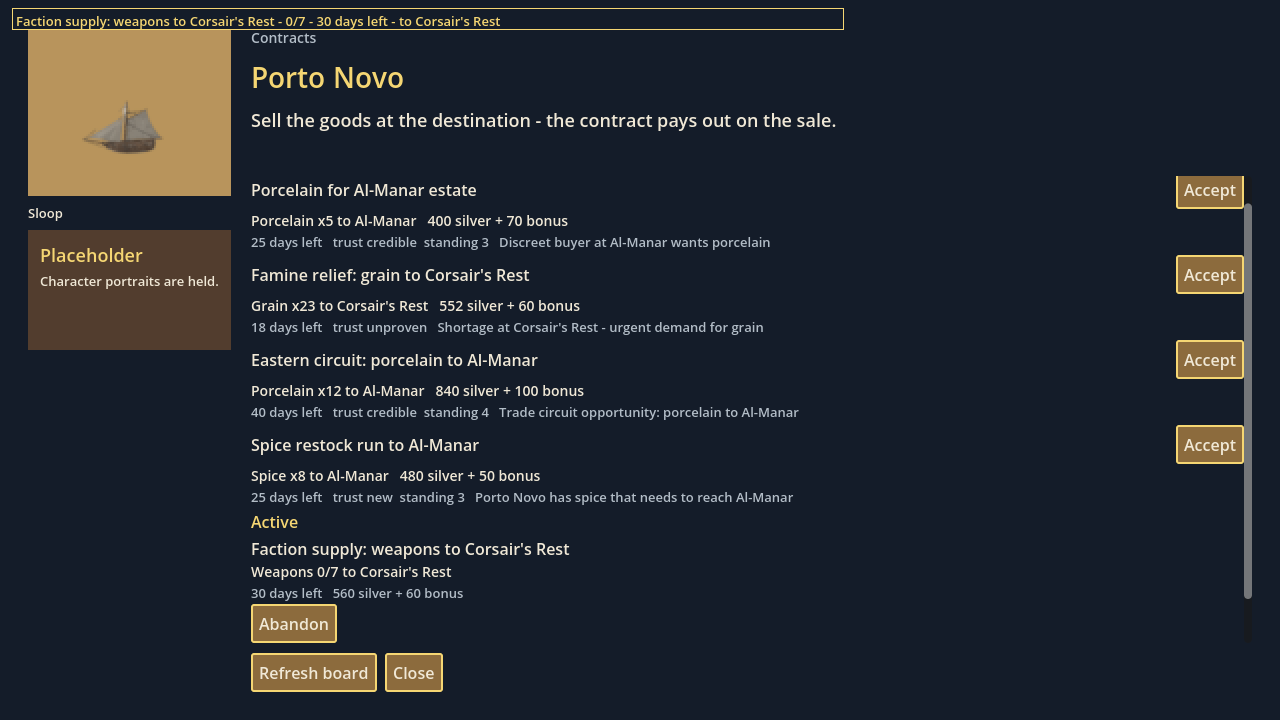
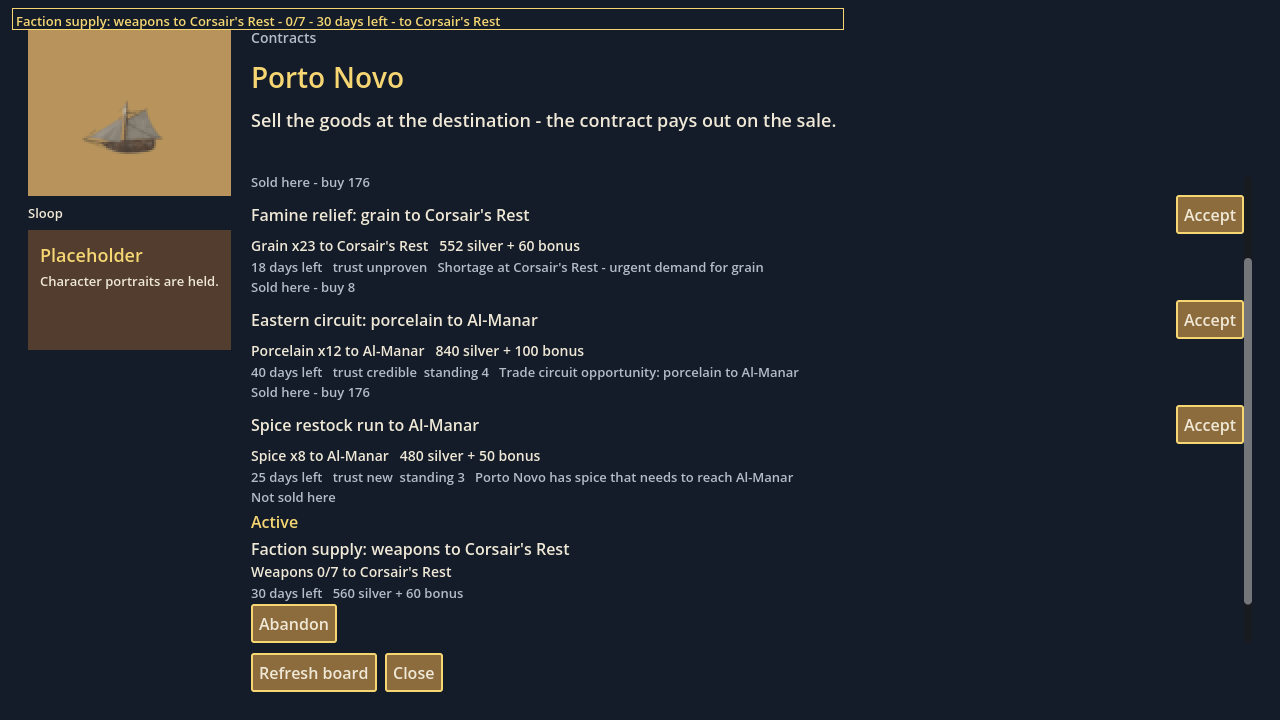
feat(godot): availability tag on Contracts board cards (T-S)
Each board card gets one muted 13 px line after the reward, about the
docked port's market only: "Sold here - buy {price}" when the good is in
stock, "Out of stock here" when the slot is empty, "Not sold here" when
there is no slot. No tag at sea and none on Active rows. The tag is the
card's last line, so the playtest lens keeps title/detail/meta in place.

contracts-board and contracts-active re-shot for the new line.

Changed region(s): [[0.1875, 0.2444, 0.625, 0.7028], [0.9062, 0.2444, 1.0, 0.6417], [0.5938, 0.4889, 0.625, 0.5194]]

diff --git a/crates/portlight-godot/src/contracts_screen.rs b/crates/portlight-godot/src/contracts_screen.rs
@@ -262,6 +262,20 @@ pub(crate) fn outcome_summary(outcome: &ContractOutcome) -> String {
     ascii_sentence(&words.join(" "))
 }
 
+/// T-S. One muted fact about the docked port's market for a board card.
+/// `None` when not docked. No remote prices, no advice.
+pub(crate) fn availability_tag(
+    market: Option<&[portlight_sim::model::MarketSlot]>,
+    good_id: &str,
+) -> Option<String> {
+    let slot = market?.iter().find(|slot| slot.good_id == good_id);
+    Some(match slot {
+        Some(slot) if slot.stock_current > 0 => format!("Sold here - buy {}", slot.buy_price),
+        Some(_) => "Out of stock here".to_string(),
+        None => "Not sold here".to_string(),
+    })
+}
+
 fn port_display_name(id: &str) -> String {
     portlight_sim::content::content()
         .port(id)
@@ -305,9 +319,9 @@ mod tests {
     use portlight_sim::Session;
 
     use super::{
-        abandon_prompt, ascii_sentence, can_complete, days_left_text, outcome_notice,
-        outcome_summary, outcome_terms, progress_text, requirement_text, reward_text, BOARD_CARD,
-        CAP_FULL, EMPTY_OFFERS, MAX_ACTIVE,
+        abandon_prompt, ascii_sentence, availability_tag, can_complete, days_left_text,
+        outcome_notice, outcome_summary, outcome_terms, progress_text, requirement_text,
+        reward_text, BOARD_CARD, CAP_FULL, EMPTY_OFFERS, MAX_ACTIVE,
     };
 
     #[test]
@@ -503,5 +517,41 @@ mod tests {
         quiet.standing_delta = 0;
         quiet.heat_delta = 0;
         assert_eq!(outcome_terms(&quiet, true), " - Trust +1");
+    }
+
+    #[test]
+    fn availability_tag_reads_the_docked_market_only() {
+        let session = Session::new("Ada", "merchant", 1, None).expect("seed-1 session");
+        let mut market = session
+            .world()
+            .port("porto_novo")
+            .expect("Porto Novo")
+            .market
+            .clone();
+        let grain = market
+            .iter()
+            .find(|slot| slot.good_id == "grain")
+            .expect("grain slot")
+            .buy_price;
+        assert_eq!(
+            availability_tag(Some(&market), "grain").as_deref(),
+            Some(format!("Sold here - buy {grain}").as_str())
+        );
+        assert_eq!(
+            availability_tag(Some(&market), "weapons").as_deref(),
+            Some("Not sold here")
+        );
+        for slot in market.iter_mut().filter(|slot| slot.good_id == "grain") {
+            slot.stock_current = 0;
+        }
+        assert_eq!(
+            availability_tag(Some(&market), "grain").as_deref(),
+            Some("Out of stock here")
+        );
+        // At sea there is no docked market, so no tag.
+        assert_eq!(availability_tag(None, "grain"), None);
+        for tag in ["Sold here - buy 8", "Out of stock here", "Not sold here"] {
+            assert!(tag.is_ascii(), "{tag}");
+        }
     }
 }

diff --git a/crates/portlight-godot/src/game.rs b/crates/portlight-godot/src/game.rs
@@ -5753,6 +5753,9 @@ impl PortlightGame {
             13,
             contracts_screen::meta_color(offer.due),
         ));
+        if let Some(tag) = &offer.availability {
+            block.add_child(&contracts_screen::body_line(tag, 13, MUTED));
+        }
         block
     }
 
@@ -8977,6 +8980,8 @@ struct ListedOffer {
     detail: String,
     meta: String,
     due: bool,
+    /// T-S. Docked market fact for the good; `None` at sea.
+    availability: Option<String>,
 }
 
 struct ListedActive {
@@ -8997,6 +9002,9 @@ struct ContractListing {
 fn contract_listing(session: &Session) -> ContractListing {
     let day = session.world().day;
     let world = session.world();
+    let docked_market = docked_port_id(session)
+        .and_then(|id| world.port(id))
+        .map(|port| port.market.as_slice());
     let offers = session
         .board()
         .offers
@@ -9024,6 +9032,7 @@ fn contract_listing(session: &Session) -> ContractListing {
                     contracts_screen::ascii_sentence(&offer.offer_reason)
                 ),
                 due,
+                availability: contracts_screen::availability_tag(docked_market, &offer.good_id),
             }
         })
         .collect();
